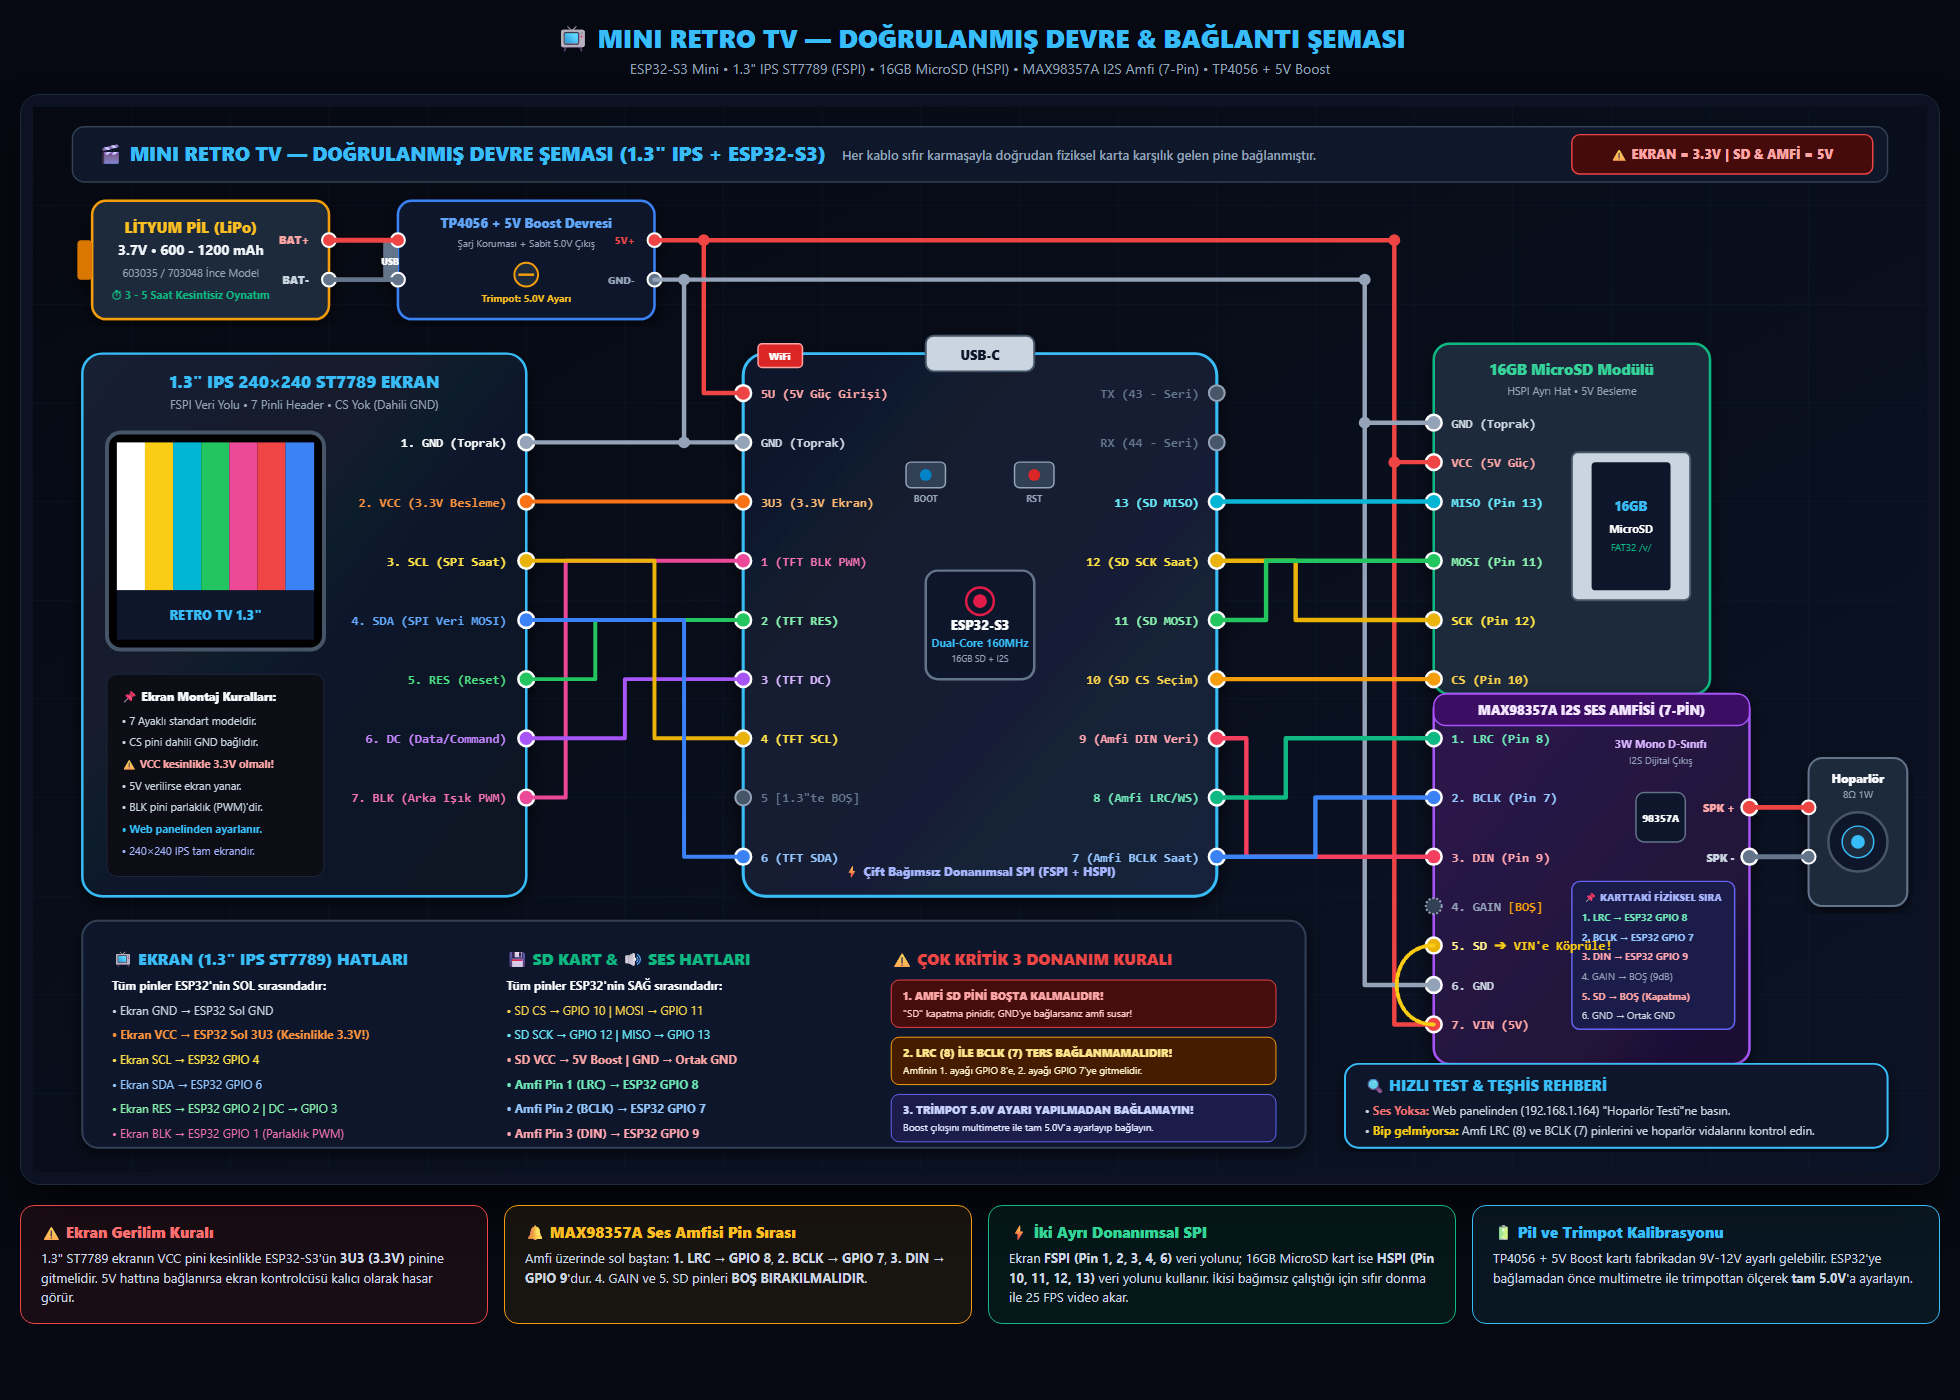
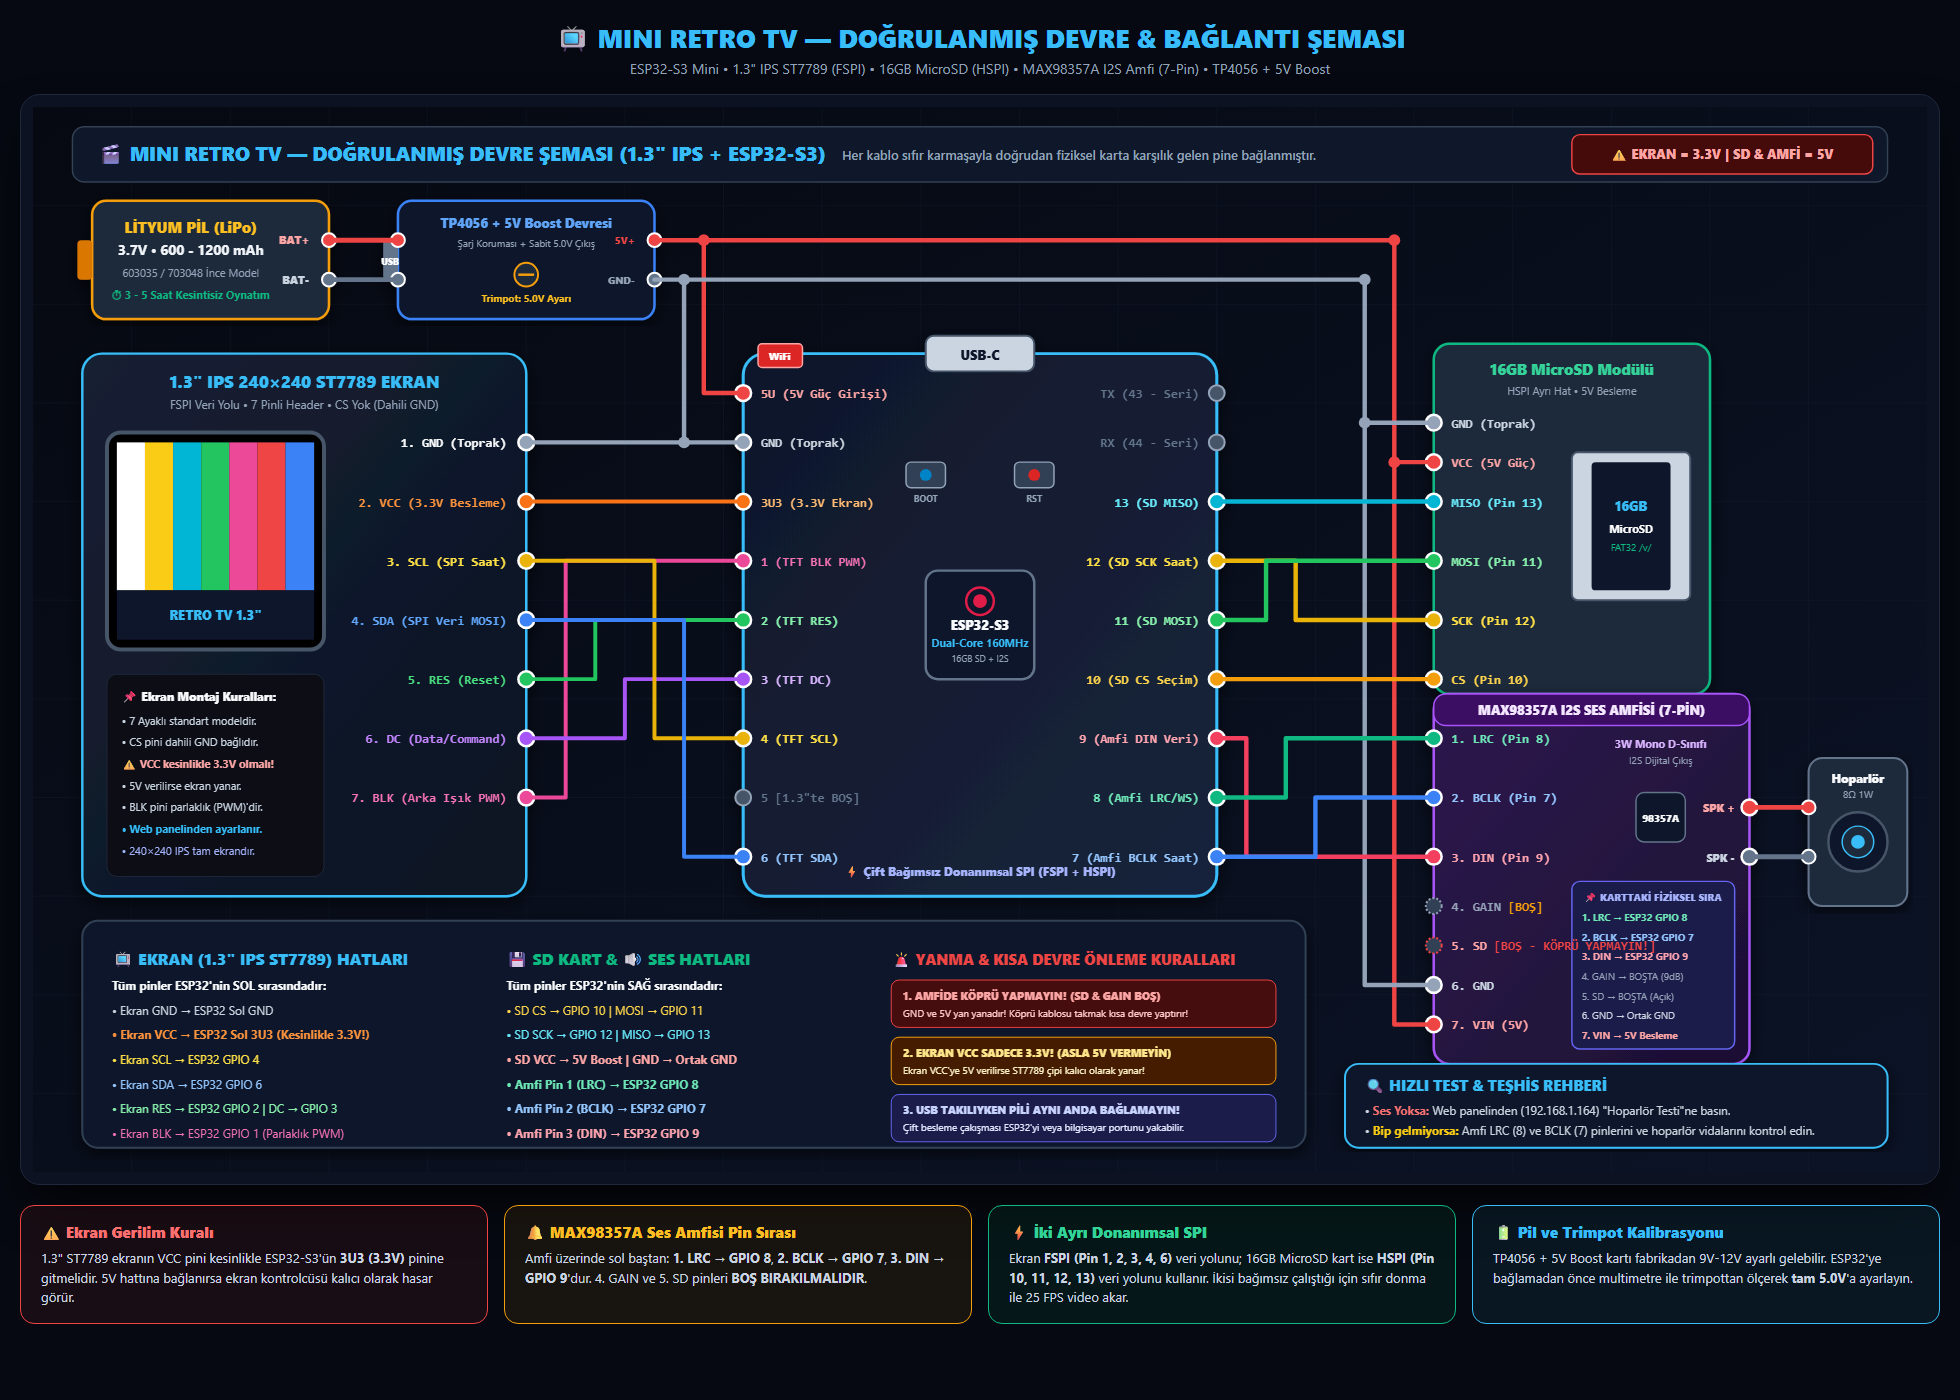
fix(safety): tum kisa devre riskleri temizlendi, SD koprusu kaldirildi, kesin guvenli sema yayinlandi

Changed region(s): [[0.4668, 0.6757, 0.6224, 0.8293], [0.8092, 0.7064, 0.8714, 0.7679], [0.7158, 0.6757, 0.7469, 0.7064]]

diff --git a/docs/baglanti_semasi_13inch.html b/docs/baglanti_semasi_13inch.html
@@ -455,14 +455,15 @@
     <text x="1725" y="765" fill="#cbd5e1" font-size="11" font-weight="900" text-anchor="end">SPK -</text>
 
     <!-- Physical Pinout Reference Box (Right side of PCB) -->
-    <rect x="1560" y="785" width="165" height="150" rx="8" fill="#1e1b4b" stroke="#6366f1" stroke-width="1.5"/>
+    <rect x="1560" y="785" width="165" height="170" rx="8" fill="#1e1b4b" stroke="#6366f1" stroke-width="1.5"/>
     <text x="1642" y="805" fill="#a5b4fc" font-size="10" font-weight="900" text-anchor="middle">📌 KARTTAKİ FİZİKSEL SIRA</text>
     <text x="1570" y="825" fill="#6ee7b7" font-size="10" font-weight="700">1. LRC  → ESP32 GPIO 8</text>
     <text x="1570" y="845" fill="#93c5fd" font-size="10" font-weight="700">2. BCLK → ESP32 GPIO 7</text>
     <text x="1570" y="865" fill="#fda4af" font-size="10" font-weight="700">3. DIN  → ESP32 GPIO 9</text>
-    <text x="1570" y="885" fill="#94a3b8" font-size="10">4. GAIN → BOŞ (9dB)</text>
-    <text x="1570" y="905" fill="#fca5a5" font-size="10" font-weight="700">5. SD   → BOŞ (Kapatma)</text>
+    <text x="1570" y="885" fill="#94a3b8" font-size="10">4. GAIN → BOŞTA (9dB)</text>
+    <text x="1570" y="905" fill="#94a3b8" font-size="10">5. SD   → BOŞTA (Açık)</text>
     <text x="1570" y="925" fill="#cbd5e1" font-size="10">6. GND  → Ortak GND</text>
+    <text x="1570" y="945" fill="#fca5a5" font-size="10" font-weight="700">7. VIN  → 5V Besleme</text>
 
     <!-- 7 Pins on the Left Edge (x = 1420, facing ESP32) -->
     <!-- Pins 3, 1, 2 directly face GPIO 9, 8, 7 for 100% straight horizontal lines -->
@@ -483,9 +484,9 @@
       <circle cx="1420" cy="810" r="8" fill="#334155" stroke="#94a3b8" stroke-width="2" stroke-dasharray="2 2"/>
       <text x="1438" y="815" fill="#94a3b8">4. GAIN <tspan fill="#f59e0b">[BOŞ]</tspan></text>
 
-      <!-- 5. SD (y=850) -> Jumper to VIN! -->
-      <circle cx="1420" cy="850" r="8" fill="#eab308" stroke="#fff" stroke-width="2.5"/>
-      <text x="1438" y="855" fill="#fef08a">5. SD <tspan fill="#facc15">➔ VIN'e Köprüle!</tspan></text>
+      <!-- 5. SD (y=850) -> KESİNLİKLE BOŞTA (Köprü Yapmayın!) -->
+      <circle cx="1420" cy="850" r="8" fill="#334155" stroke="#ef4444" stroke-width="2" stroke-dasharray="2 2"/>
+      <text x="1438" y="855" fill="#fca5a5">5. SD <tspan fill="#ef4444">[BOŞ - KÖPRÜ YAPMAYIN!]</tspan></text>
 
       <!-- 6. GND (y=890) -->
       <circle cx="1420" cy="890" r="8" fill="#94a3b8" stroke="#fff" stroke-width="2.5"/>
@@ -607,8 +608,7 @@
     <!-- ESP32 Pin 7 BCLK (1200, 760) -> Amfi Pin 2 BCLK (1420, 700) -->
     <path d="M 1200 760 L 1300 760 L 1300 700 L 1420 700" stroke="#3b82f6" stroke-width="4.5"/>
 
-    <!-- SD to VIN Hardware Jumper Wire (Wakes up amplifier!) -->
-    <path d="M 1420 850 C 1370 850, 1370 930, 1420 930" stroke="#facc15" stroke-width="4" stroke-dasharray="4 3"/>
+    <!-- SD Pini Kesinlikle Boş Bırakılır (Kısa devre riskini önlemek için köprü yapılmaz) -->
 
     <!-- 8. MAX98357A OUTPUT TO SPEAKER -->
     <!-- PURE STRAIGHT HORIZONTAL LINES! -->
@@ -649,21 +649,21 @@
       <text x="0" y="195" fill="#fda4af" font-size="12" font-weight="700">• Amfi Pin 3 (DIN) → ESP32 GPIO 9</text>
     </g>
 
-    <!-- Column 3: KRİTİK UYARILAR -->
+    <!-- Column 3: KRİTİK GÜVENLİK VE YANMAYI ÖNLEME UYARILARI -->
     <g transform="translate(870, 850)">
-      <text x="0" y="20" fill="#ef4444" font-size="16" font-weight="900">⚠ ÇOK KRİTİK 3 DONANIM KURALI</text>
+      <text x="0" y="20" fill="#ef4444" font-size="15" font-weight="900">🚨 YANMA & KISA DEVRE ÖNLEME KURALLARI</text>
       
       <rect x="0" y="35" width="390" height="48" rx="8" fill="#450a0a" stroke="#ef4444"/>
-      <text x="12" y="55" fill="#fca5a5" font-size="11" font-weight="800">1. AMFİ SD PİNİ BOŞTA KALMALIDIR!</text>
-      <text x="12" y="72" fill="#fecaca" font-size="10">"SD" kapatma pinidir, GND'ye bağlarsanız amfi susar!</text>
+      <text x="12" y="55" fill="#fca5a5" font-size="11" font-weight="800">1. AMFİDE KÖPRÜ YAPMAYIN! (SD & GAIN BOŞ)</text>
+      <text x="12" y="72" fill="#fecaca" font-size="10">GND ve 5V yan yanadır! Köprü kablosu takmak kısa devre yaptırır!</text>
 
       <rect x="0" y="93" width="390" height="48" rx="8" fill="#451a03" stroke="#f59e0b"/>
-      <text x="12" y="113" fill="#fde68a" font-size="11" font-weight="800">2. LRC (8) İLE BCLK (7) TERS BAĞLANMAMALIDIR!</text>
-      <text x="12" y="130" fill="#fef3c7" font-size="10">Amfinin 1. ayağı GPIO 8'e, 2. ayağı GPIO 7'ye gitmelidir.</text>
+      <text x="12" y="113" fill="#fde68a" font-size="11" font-weight="800">2. EKRAN VCC SADECE 3.3V! (ASLA 5V VERMEYİN)</text>
+      <text x="12" y="130" fill="#fef3c7" font-size="10">Ekran VCC'ye 5V verilirse ST7789 çipi kalıcı olarak yanar!</text>
 
       <rect x="0" y="151" width="390" height="48" rx="8" fill="#1e1b4b" stroke="#6366f1"/>
-      <text x="12" y="171" fill="#c7d2fe" font-size="11" font-weight="800">3. TRİMPOT 5.0V AYARI YAPILMADAN BAĞLAMAYIN!</text>
-      <text x="12" y="188" fill="#e0e7ff" font-size="10">Boost çıkışını multimetre ile tam 5.0V'a ayarlayıp bağlayın.</text>
+      <text x="12" y="171" fill="#c7d2fe" font-size="11" font-weight="800">3. USB TAKILIYKEN PİLİ AYNI ANDA BAĞLAMAYIN!</text>
+      <text x="12" y="188" fill="#e0e7ff" font-size="10">Çift besleme çakışması ESP32'yi veya bilgisayar portunu yakabilir.</text>
     </g>
   </g>
 

diff --git a/docs/eski_baglanti_semasi.html b/docs/eski_baglanti_semasi.html
@@ -455,14 +455,15 @@
     <text x="1725" y="765" fill="#cbd5e1" font-size="11" font-weight="900" text-anchor="end">SPK -</text>
 
     <!-- Physical Pinout Reference Box (Right side of PCB) -->
-    <rect x="1560" y="785" width="165" height="150" rx="8" fill="#1e1b4b" stroke="#6366f1" stroke-width="1.5"/>
+    <rect x="1560" y="785" width="165" height="170" rx="8" fill="#1e1b4b" stroke="#6366f1" stroke-width="1.5"/>
     <text x="1642" y="805" fill="#a5b4fc" font-size="10" font-weight="900" text-anchor="middle">📌 KARTTAKİ FİZİKSEL SIRA</text>
     <text x="1570" y="825" fill="#6ee7b7" font-size="10" font-weight="700">1. LRC  → ESP32 GPIO 8</text>
     <text x="1570" y="845" fill="#93c5fd" font-size="10" font-weight="700">2. BCLK → ESP32 GPIO 7</text>
     <text x="1570" y="865" fill="#fda4af" font-size="10" font-weight="700">3. DIN  → ESP32 GPIO 9</text>
-    <text x="1570" y="885" fill="#94a3b8" font-size="10">4. GAIN → BOŞ (9dB)</text>
-    <text x="1570" y="905" fill="#fca5a5" font-size="10" font-weight="700">5. SD   → BOŞ (Kapatma)</text>
+    <text x="1570" y="885" fill="#94a3b8" font-size="10">4. GAIN → BOŞTA (9dB)</text>
+    <text x="1570" y="905" fill="#94a3b8" font-size="10">5. SD   → BOŞTA (Açık)</text>
     <text x="1570" y="925" fill="#cbd5e1" font-size="10">6. GND  → Ortak GND</text>
+    <text x="1570" y="945" fill="#fca5a5" font-size="10" font-weight="700">7. VIN  → 5V Besleme</text>
 
     <!-- 7 Pins on the Left Edge (x = 1420, facing ESP32) -->
     <!-- Pins 3, 1, 2 directly face GPIO 9, 8, 7 for 100% straight horizontal lines -->
@@ -483,9 +484,9 @@
       <circle cx="1420" cy="810" r="8" fill="#334155" stroke="#94a3b8" stroke-width="2" stroke-dasharray="2 2"/>
       <text x="1438" y="815" fill="#94a3b8">4. GAIN <tspan fill="#f59e0b">[BOŞ]</tspan></text>
 
-      <!-- 5. SD (y=850) -> Jumper to VIN! -->
-      <circle cx="1420" cy="850" r="8" fill="#eab308" stroke="#fff" stroke-width="2.5"/>
-      <text x="1438" y="855" fill="#fef08a">5. SD <tspan fill="#facc15">➔ VIN'e Köprüle!</tspan></text>
+      <!-- 5. SD (y=850) -> KESİNLİKLE BOŞTA (Köprü Yapmayın!) -->
+      <circle cx="1420" cy="850" r="8" fill="#334155" stroke="#ef4444" stroke-width="2" stroke-dasharray="2 2"/>
+      <text x="1438" y="855" fill="#fca5a5">5. SD <tspan fill="#ef4444">[BOŞ - KÖPRÜ YAPMAYIN!]</tspan></text>
 
       <!-- 6. GND (y=890) -->
       <circle cx="1420" cy="890" r="8" fill="#94a3b8" stroke="#fff" stroke-width="2.5"/>
@@ -607,8 +608,7 @@
     <!-- ESP32 Pin 7 BCLK (1200, 760) -> Amfi Pin 2 BCLK (1420, 700) -->
     <path d="M 1200 760 L 1300 760 L 1300 700 L 1420 700" stroke="#3b82f6" stroke-width="4.5"/>
 
-    <!-- SD to VIN Hardware Jumper Wire (Wakes up amplifier!) -->
-    <path d="M 1420 850 C 1370 850, 1370 930, 1420 930" stroke="#facc15" stroke-width="4" stroke-dasharray="4 3"/>
+    <!-- SD Pini Kesinlikle Boş Bırakılır (Kısa devre riskini önlemek için köprü yapılmaz) -->
 
     <!-- 8. MAX98357A OUTPUT TO SPEAKER -->
     <!-- PURE STRAIGHT HORIZONTAL LINES! -->
@@ -649,21 +649,21 @@
       <text x="0" y="195" fill="#fda4af" font-size="12" font-weight="700">• Amfi Pin 3 (DIN) → ESP32 GPIO 9</text>
     </g>
 
-    <!-- Column 3: KRİTİK UYARILAR -->
+    <!-- Column 3: KRİTİK GÜVENLİK VE YANMAYI ÖNLEME UYARILARI -->
     <g transform="translate(870, 850)">
-      <text x="0" y="20" fill="#ef4444" font-size="16" font-weight="900">⚠ ÇOK KRİTİK 3 DONANIM KURALI</text>
+      <text x="0" y="20" fill="#ef4444" font-size="15" font-weight="900">🚨 YANMA & KISA DEVRE ÖNLEME KURALLARI</text>
       
       <rect x="0" y="35" width="390" height="48" rx="8" fill="#450a0a" stroke="#ef4444"/>
-      <text x="12" y="55" fill="#fca5a5" font-size="11" font-weight="800">1. AMFİ SD PİNİ BOŞTA KALMALIDIR!</text>
-      <text x="12" y="72" fill="#fecaca" font-size="10">"SD" kapatma pinidir, GND'ye bağlarsanız amfi susar!</text>
+      <text x="12" y="55" fill="#fca5a5" font-size="11" font-weight="800">1. AMFİDE KÖPRÜ YAPMAYIN! (SD & GAIN BOŞ)</text>
+      <text x="12" y="72" fill="#fecaca" font-size="10">GND ve 5V yan yanadır! Köprü kablosu takmak kısa devre yaptırır!</text>
 
       <rect x="0" y="93" width="390" height="48" rx="8" fill="#451a03" stroke="#f59e0b"/>
-      <text x="12" y="113" fill="#fde68a" font-size="11" font-weight="800">2. LRC (8) İLE BCLK (7) TERS BAĞLANMAMALIDIR!</text>
-      <text x="12" y="130" fill="#fef3c7" font-size="10">Amfinin 1. ayağı GPIO 8'e, 2. ayağı GPIO 7'ye gitmelidir.</text>
+      <text x="12" y="113" fill="#fde68a" font-size="11" font-weight="800">2. EKRAN VCC SADECE 3.3V! (ASLA 5V VERMEYİN)</text>
+      <text x="12" y="130" fill="#fef3c7" font-size="10">Ekran VCC'ye 5V verilirse ST7789 çipi kalıcı olarak yanar!</text>
 
       <rect x="0" y="151" width="390" height="48" rx="8" fill="#1e1b4b" stroke="#6366f1"/>
-      <text x="12" y="171" fill="#c7d2fe" font-size="11" font-weight="800">3. TRİMPOT 5.0V AYARI YAPILMADAN BAĞLAMAYIN!</text>
-      <text x="12" y="188" fill="#e0e7ff" font-size="10">Boost çıkışını multimetre ile tam 5.0V'a ayarlayıp bağlayın.</text>
+      <text x="12" y="171" fill="#c7d2fe" font-size="11" font-weight="800">3. USB TAKILIYKEN PİLİ AYNI ANDA BAĞLAMAYIN!</text>
+      <text x="12" y="188" fill="#e0e7ff" font-size="10">Çift besleme çakışması ESP32'yi veya bilgisayar portunu yakabilir.</text>
     </g>
   </g>
 

diff --git a/firmware/MiniRetroTV/web_page.h b/firmware/MiniRetroTV/web_page.h
@@ -656,7 +656,7 @@ async function testBeep() {
   try {
     const res = await fetch('/beep');
     const data = await res.json();
-    alert('🔔 Test sinyali (Bip-Bip) hoparlöre gönderildi!\n\nEğer ses duyamadıysan:\n1. MAX98357A LRC (GPIO 8) ve BCLK (GPIO 7) pinlerini kontrol et.\n2. SD pini normalde boştur; klon kartlarda ses gelmiyorsa SD pinini hemen yanındaki VIN (5V) pinine küçük bir kabloyla köprüleyin!\n3. VIN pini 5V Boost\'a bağlı olmalı.\n4. Hoparlör klemens vidalarını kontrol et.');
+    alert('🔔 Test sinyali (Bip-Bip) hoparlöre gönderildi!\n\nEğer ses duyamadıysan:\n1. MAX98357A LRC (GPIO 8), BCLK (GPIO 7) ve DIN (GPIO 9) pinlerini kontrol et.\n2. GAIN ve SD pinleri KESİNLİKLE BOŞTA olmalı (Köprü yapmayın!).\n3. VIN pini 5V Boost\'a, GND pini ortak GND\'ye bağlı olmalı.\n4. Hoparlör klemens vidalarını kontrol et.');
   } catch(e) {
     alert('Hata: ' + e);
   }

diff --git a/BAGLANTI_SEMASI.md b/BAGLANTI_SEMASI.md
@@ -58,7 +58,7 @@ Fiziksel kart üzerindeki 7 pinin sırasıyla bağlantı durumu:
 | **2** | **BCLK** | **GPIO 7** | Bağlı | I2S Bit Clock (Ses Saat Sinyali) |
 | **3** | **DIN** | **GPIO 9** | Bağlı | I2S Data In (Sayısal Ses Verisi) |
 | **4** | **GAIN** | *(Boş)* | **BOŞ** | **Bağlanmaz!** Boş bırakıldığında varsayılan 9 dB temiz kazançta çalışır |
-| **5** | **SD** | *(Boş veya VIN)* | **BOŞ / VIN KÖPRÜSÜ** | Standartta boştur `(L+R)/2 mono`. **Eğer ses gelmiyorsa:** Klon kartlarda dahili pull-up direnci eksik olduğundan amfi otomatik uyku moduna geçer. **5. SD pinini hemen yanındaki 7. VIN (5V) pinine küçük bir kabloyla köprüleyin!** Böylece amfi anında uyanır ve sol kanal sesi basar. |
+| **5** | **SD** | *(Boş)* | **BOŞ (KESİNLİKLE BAĞLANMAZ!)** | 🚨 **ASLA KÖPRÜ YAPMAYIN!** Hemen yanındaki 6. pin GND, 7. pin ise 5V'tur. Araya köprü teli takmaya çalışmak 5V ile GND'yi kısa devre yaptırıp **kartı yakabilir ve pili patlatabilir!** MAX98357A çipi SD pini boş bırakıldığında zaten varsayılan olarak AÇIKTIR ve stereo sesi mono olarak hoparlöre verir `(L+R)/2`. |
 | **6** | **GND** | **GND** | Bağlı | Ortak Toprak Hattı |
 | **7** | **VIN** | **5V (5U)** | Bağlı | 5V Güç Beslemesi (Hoparlörden 3W tam ve net güç almak için) |
 | — | **`+` / `−`** | **Hoparlör** | Bağlı | 8Ω 1W mini hoparlör uçlarına lehimlenir (+ Kırmızı, − Siyah) |

diff --git a/MONTAJ_VE_BAGLANTI_REHBERI.md b/MONTAJ_VE_BAGLANTI_REHBERI.md
@@ -38,7 +38,7 @@ Kart üzerinde yan yana dizili bulunan 7 pinin sırasıyla montaj durumu:
 * **2. BCLK** $\rightarrow$ ESP32-S3 `GPIO 7` *(Bit Clock)*
 * **3. DIN** $\rightarrow$ ESP32-S3 `GPIO 9` *(Data In / Ses Verisi)*
 * **4. GAIN** $\rightarrow$ **BOŞ (Bağlanmaz)** *(Varsayılan 9 dB temiz kazanç)*
-* **5. SD** $\rightarrow$ **BOŞ veya VIN'E KÖPRÜ** *(Eğer hoparlörden hiç ses gelmiyorsa, klon kartların otomatik uyku modundan çıkması için 5. SD pinini 7. VIN pinine bir kablo parçasıyla köprüleyin!)*
+* **5. SD** $\rightarrow$ **BOŞ (KESİNLİKLE BAĞLANMAZ / KÖPRÜ YAPMAYIN!)** *(Yanındaki 6. GND ve 7. 5V uçları kısa devre olmasın diye SD pini kesinlikle boş bırakılmalıdır. Çip boşken otomatik açıktır).*
 * **6. GND** $\rightarrow$ Ortak `GND`
 * **7. VIN** $\rightarrow$ **`5V (5U)`** *(3W ses gücü için 5V hattına bağlanır)*
 * **Hoparlör Klemensleri (`+` / `−`):** 8Ω 1W mini hoparlör uçlarına lehimlenir (+ Kırmızı, − Siyah).
